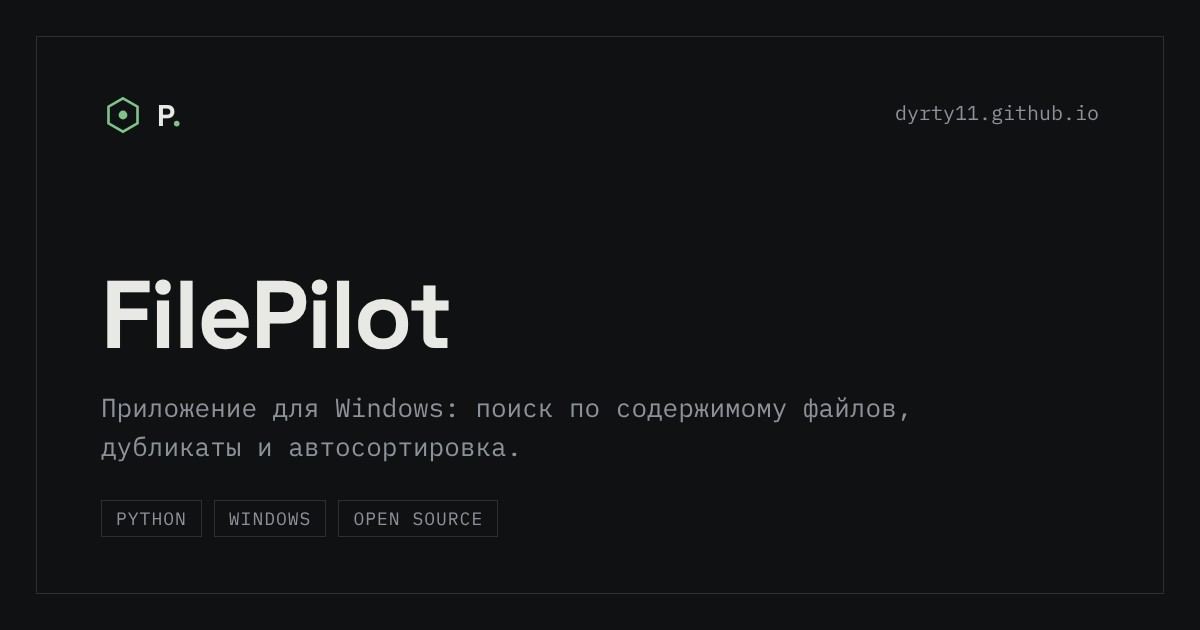
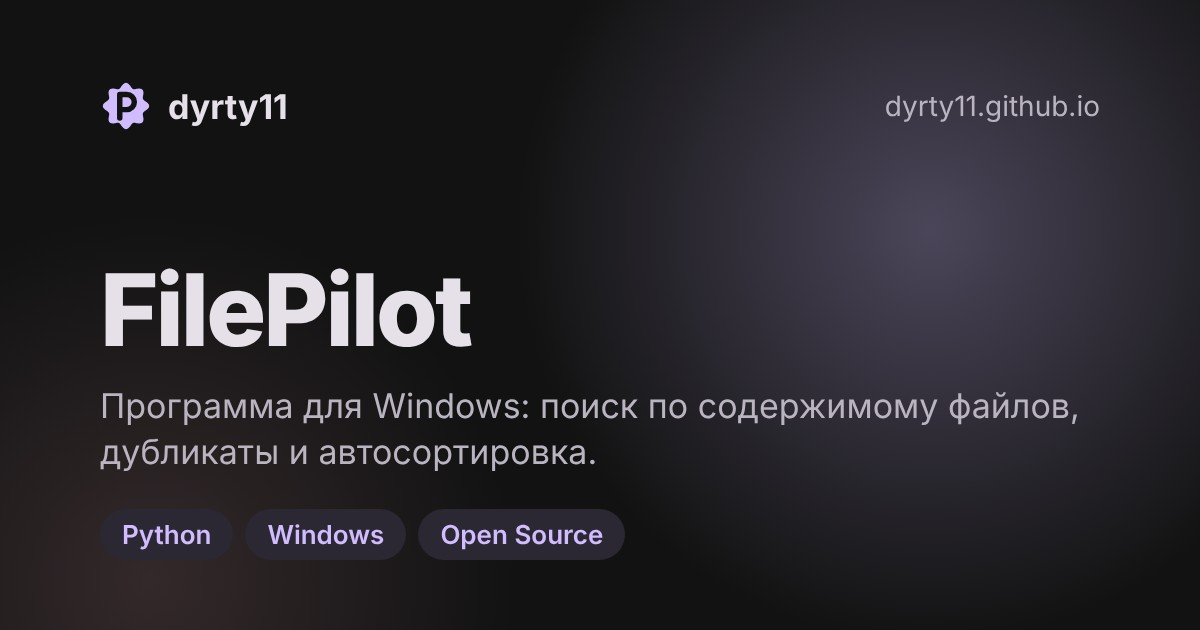
Кнопка Boosty заметнее; логотип, иконки, превью и скриншоты проектов в лавандовой теме
Claude-Session: https://claude.ai/code/session_01NerikphXdw5LsC3ChMqPgt

diff --git a/index.html b/index.html
@@ -47,6 +47,7 @@
             <a href="contacts.html">Контакты</a>
         </nav>
         <div class="header-controls">
+            <a class="boosty-btn" href="https://boosty.to/dyrty_11" target="_blank" rel="noopener noreferrer" aria-label="Поддержать на Boosty"><svg viewBox="0 0 24 24" fill="currentColor" aria-hidden="true"><path d="M12 21s-7.5-4.6-9.6-9.3C.9 8.2 2.8 4.5 6.4 4.5c2 0 3.7 1.1 4.6 2.7h2c.9-1.6 2.6-2.7 4.6-2.7 3.600 0 5.500 3.700 4 7.200C19.500 16.400 12 21 12 21z"/></svg><span>Boosty</span></a>
             <div class="theme-switch" id="themeToggle">
                 <div class="theme-switch-ball"></div>
                 <svg class="sun-icon" viewBox="0 0 24 24"><polygon points="16.80,12.00 14.40,16.16 9.60,16.16 7.20,12.00 9.60,7.84 14.40,7.84"/><path d="M17.93,13.81L21.70,17.60L16.53,16.23zM13.39,18.04L12.00,23.20L10.61,18.04zM7.47,16.23L2.30,17.60L6.07,13.81zM6.07,10.19L2.30,6.40L7.47,7.77zM10.61,5.96L12.00,0.80L13.39,5.96zM16.53,7.77L21.70,6.40L17.93,10.19z"/></svg>
@@ -72,6 +73,7 @@
                         <a href="projects.html" class="btn btn-primary">Смотреть проекты</a>
                         <a href="contacts.html" class="btn">Связаться</a>
                         <a href="https://github.com/dyrty11" target="_blank" rel="noopener noreferrer" class="btn">GitHub</a>
+                        <a href="https://boosty.to/dyrty_11" target="_blank" rel="noopener noreferrer" class="btn btn-boosty"><svg viewBox="0 0 24 24" fill="currentColor" aria-hidden="true"><path d="M12 21s-7.5-4.6-9.6-9.3C.9 8.2 2.8 4.5 6.4 4.5c2 0 3.7 1.1 4.6 2.7h2c.9-1.6 2.6-2.7 4.6-2.7 3.600 0 5.500 3.700 4 7.200C19.500 16.400 12 21 12 21z"/></svg>Поддержать на Boosty</a>
                     </div>
                 </div>
             </section>
@@ -160,7 +162,7 @@
                         <p>Я dyrty11, разработчик. Делаю сайты, браузерные утилиты и приложения для Windows. VoidForge работает в браузере, FilePilot ставится на компьютер; исходный код открыт.</p>
                         <p>Опишите задачу, и я предложу решение и сроки.</p>
                         <div class="about-actions"><a href="contacts.html" class="btn btn-primary">Обсудить проект</a>
-                            <a href="https://boosty.to/dyrty_11" target="_blank" rel="noopener noreferrer" class="btn">Поддержать на Boosty</a></div>
+                            <a href="https://boosty.to/dyrty_11" target="_blank" rel="noopener noreferrer" class="btn btn-boosty"><svg viewBox="0 0 24 24" fill="currentColor" aria-hidden="true"><path d="M12 21s-7.5-4.6-9.6-9.3C.9 8.2 2.8 4.5 6.4 4.5c2 0 3.7 1.1 4.6 2.7h2c.9-1.6 2.6-2.7 4.6-2.7 3.600 0 5.500 3.700 4 7.200C19.500 16.400 12 21 12 21z"/></svg>Поддержать на Boosty</a></div>
                     </div>
                     <div class="about-side" data-reveal>
                         <h3>Стек</h3>

diff --git a/contacts.html b/contacts.html
@@ -45,6 +45,7 @@
             <a href="contacts.html" class="active" aria-current="page">Контакты</a>
         </nav>
         <div class="header-controls">
+            <a class="boosty-btn" href="https://boosty.to/dyrty_11" target="_blank" rel="noopener noreferrer" aria-label="Поддержать на Boosty"><svg viewBox="0 0 24 24" fill="currentColor" aria-hidden="true"><path d="M12 21s-7.5-4.6-9.6-9.3C.9 8.2 2.8 4.5 6.4 4.5c2 0 3.7 1.1 4.6 2.7h2c.9-1.6 2.6-2.7 4.6-2.7 3.600 0 5.500 3.700 4 7.200C19.500 16.400 12 21 12 21z"/></svg><span>Boosty</span></a>
             <div class="theme-switch" id="themeToggle">
                 <div class="theme-switch-ball"></div>
                 <svg class="sun-icon" viewBox="0 0 24 24"><polygon points="16.80,12.00 14.40,16.16 9.60,16.16 7.20,12.00 9.60,7.84 14.40,7.84"/><path d="M17.93,13.81L21.70,17.60L16.53,16.23zM13.39,18.04L12.00,23.20L10.61,18.04zM7.47,16.23L2.30,17.60L6.07,13.81zM6.07,10.19L2.30,6.40L7.47,7.77zM10.61,5.96L12.00,0.80L13.39,5.96zM16.53,7.77L21.70,6.40L17.93,10.19z"/></svg>
@@ -105,7 +106,7 @@
             <aside class="support-card">
                 <h2>Поддержать проект</h2>
                 <p>Сайт и программы бесплатные. Если они пригодились, можно закинуть любую сумму на Boosty.</p>
-                <a href="https://boosty.to/dyrty_11" target="_blank" rel="noopener noreferrer" class="btn btn-primary">Поддержать на Boosty</a>
+                <a href="https://boosty.to/dyrty_11" target="_blank" rel="noopener noreferrer" class="btn btn-boosty"><svg viewBox="0 0 24 24" fill="currentColor" aria-hidden="true"><path d="M12 21s-7.5-4.6-9.6-9.3C.9 8.2 2.8 4.5 6.4 4.5c2 0 3.7 1.1 4.6 2.7h2c.9-1.6 2.6-2.7 4.6-2.7 3.600 0 5.500 3.700 4 7.200C19.500 16.400 12 21 12 21z"/></svg>Поддержать на Boosty</a>
             </aside>
         </div>
         <footer>

diff --git a/ttyou.css b/ttyou.css
@@ -224,3 +224,11 @@ footer::before { content: ""; position: absolute; left: 0; right: 0; top: -5px; 
 .support-card p { flex: 1 1 280px; margin: 0; color: var(--text-muted); }
 .about-actions { display: flex; flex-wrap: wrap; gap: 12px; }
 .submit-btn { border-radius: 999px; }
+
+/* Boosty: оранжевый, чтобы кнопку было видно */
+.btn-boosty, .boosty-btn { --bo: #ff6b35; background: var(--bo); color: #230d04; font-weight: 700; display: inline-flex; align-items: center; justify-content: center; gap: 8px; border: 0; }
+.btn-boosty svg, .boosty-btn svg { width: 18px; height: 18px; flex: none; }
+.btn-boosty:hover, .boosty-btn:hover { background: #ff8559; color: #230d04; box-shadow: 0 10px 30px -10px rgba(255,107,53,.7); }
+.boosty-btn { height: 40px; padding: 0 16px 0 12px; border-radius: 999px; font-size: .9rem; text-decoration: none; transition: background .2s, box-shadow .2s; }
+.header-controls { gap: 12px; }
+@media (max-width: 420px) { .boosty-btn { padding: 0 12px; } .boosty-btn span { display: none; } }

diff --git a/project-cheatsheets.html b/project-cheatsheets.html
@@ -48,6 +48,7 @@
             <a href="contacts.html">Контакты</a>
         </nav>
         <div class="header-controls">
+            <a class="boosty-btn" href="https://boosty.to/dyrty_11" target="_blank" rel="noopener noreferrer" aria-label="Поддержать на Boosty"><svg viewBox="0 0 24 24" fill="currentColor" aria-hidden="true"><path d="M12 21s-7.5-4.6-9.6-9.3C.9 8.2 2.8 4.5 6.4 4.5c2 0 3.7 1.1 4.6 2.7h2c.9-1.6 2.6-2.7 4.6-2.7 3.600 0 5.500 3.700 4 7.200C19.500 16.400 12 21 12 21z"/></svg><span>Boosty</span></a>
             <div class="theme-switch" id="themeToggle">
                 <div class="theme-switch-ball"></div>
                 <svg class="sun-icon" viewBox="0 0 24 24"><polygon points="16.80,12.00 14.40,16.16 9.60,16.16 7.20,12.00 9.60,7.84 14.40,7.84"/><path d="M17.93,13.81L21.70,17.60L16.53,16.23zM13.39,18.04L12.00,23.20L10.61,18.04zM7.47,16.23L2.30,17.60L6.07,13.81zM6.07,10.19L2.30,6.40L7.47,7.77zM10.61,5.96L12.00,0.80L13.39,5.96zM16.53,7.77L21.70,6.40L17.93,10.19z"/></svg>

diff --git a/project-filepilot.html b/project-filepilot.html
@@ -49,6 +49,7 @@
             <a href="contacts.html">Контакты</a>
         </nav>
         <div class="header-controls">
+            <a class="boosty-btn" href="https://boosty.to/dyrty_11" target="_blank" rel="noopener noreferrer" aria-label="Поддержать на Boosty"><svg viewBox="0 0 24 24" fill="currentColor" aria-hidden="true"><path d="M12 21s-7.5-4.6-9.6-9.3C.9 8.2 2.8 4.5 6.4 4.5c2 0 3.7 1.1 4.6 2.7h2c.9-1.6 2.6-2.7 4.6-2.7 3.600 0 5.500 3.700 4 7.200C19.500 16.400 12 21 12 21z"/></svg><span>Boosty</span></a>
             <div class="theme-switch" id="themeToggle">
                 <div class="theme-switch-ball"></div>
                 <svg class="sun-icon" viewBox="0 0 24 24"><polygon points="16.80,12.00 14.40,16.16 9.60,16.16 7.20,12.00 9.60,7.84 14.40,7.84"/><path d="M17.93,13.81L21.70,17.60L16.53,16.23zM13.39,18.04L12.00,23.20L10.61,18.04zM7.47,16.23L2.30,17.60L6.07,13.81zM6.07,10.19L2.30,6.40L7.47,7.77zM10.61,5.96L12.00,0.80L13.39,5.96zM16.53,7.77L21.70,6.40L17.93,10.19z"/></svg>

diff --git a/project-qr.html b/project-qr.html
@@ -48,6 +48,7 @@
             <a href="contacts.html">Контакты</a>
         </nav>
         <div class="header-controls">
+            <a class="boosty-btn" href="https://boosty.to/dyrty_11" target="_blank" rel="noopener noreferrer" aria-label="Поддержать на Boosty"><svg viewBox="0 0 24 24" fill="currentColor" aria-hidden="true"><path d="M12 21s-7.5-4.6-9.6-9.3C.9 8.2 2.8 4.5 6.4 4.5c2 0 3.7 1.1 4.6 2.7h2c.9-1.6 2.6-2.7 4.6-2.7 3.600 0 5.500 3.700 4 7.200C19.500 16.400 12 21 12 21z"/></svg><span>Boosty</span></a>
             <div class="theme-switch" id="themeToggle">
                 <div class="theme-switch-ball"></div>
                 <svg class="sun-icon" viewBox="0 0 24 24"><polygon points="16.80,12.00 14.40,16.16 9.60,16.16 7.20,12.00 9.60,7.84 14.40,7.84"/><path d="M17.93,13.81L21.70,17.60L16.53,16.23zM13.39,18.04L12.00,23.20L10.61,18.04zM7.47,16.23L2.30,17.60L6.07,13.81zM6.07,10.19L2.30,6.40L7.47,7.77zM10.61,5.96L12.00,0.80L13.39,5.96zM16.53,7.77L21.70,6.40L17.93,10.19z"/></svg>

diff --git a/project-voidforge.html b/project-voidforge.html
@@ -48,6 +48,7 @@
             <a href="contacts.html">Контакты</a>
         </nav>
         <div class="header-controls">
+            <a class="boosty-btn" href="https://boosty.to/dyrty_11" target="_blank" rel="noopener noreferrer" aria-label="Поддержать на Boosty"><svg viewBox="0 0 24 24" fill="currentColor" aria-hidden="true"><path d="M12 21s-7.5-4.6-9.6-9.3C.9 8.2 2.8 4.5 6.4 4.5c2 0 3.7 1.1 4.6 2.7h2c.9-1.6 2.6-2.7 4.6-2.7 3.600 0 5.500 3.700 4 7.200C19.500 16.400 12 21 12 21z"/></svg><span>Boosty</span></a>
             <div class="theme-switch" id="themeToggle">
                 <div class="theme-switch-ball"></div>
                 <svg class="sun-icon" viewBox="0 0 24 24"><polygon points="16.80,12.00 14.40,16.16 9.60,16.16 7.20,12.00 9.60,7.84 14.40,7.84"/><path d="M17.93,13.81L21.70,17.60L16.53,16.23zM13.39,18.04L12.00,23.20L10.61,18.04zM7.47,16.23L2.30,17.60L6.07,13.81zM6.07,10.19L2.30,6.40L7.47,7.77zM10.61,5.96L12.00,0.80L13.39,5.96zM16.53,7.77L21.70,6.40L17.93,10.19z"/></svg>

diff --git a/project.html b/project.html
@@ -44,6 +44,7 @@
             <a href="contacts.html">Контакты</a>
         </nav>
         <div class="header-controls">
+            <a class="boosty-btn" href="https://boosty.to/dyrty_11" target="_blank" rel="noopener noreferrer" aria-label="Поддержать на Boosty"><svg viewBox="0 0 24 24" fill="currentColor" aria-hidden="true"><path d="M12 21s-7.5-4.6-9.6-9.3C.9 8.2 2.8 4.5 6.4 4.5c2 0 3.7 1.1 4.6 2.7h2c.9-1.6 2.6-2.7 4.6-2.7 3.600 0 5.500 3.700 4 7.200C19.500 16.400 12 21 12 21z"/></svg><span>Boosty</span></a>
             <div class="theme-switch" id="themeToggle">
                 <div class="theme-switch-ball"></div>
                 <svg class="sun-icon" viewBox="0 0 24 24"><polygon points="16.80,12.00 14.40,16.16 9.60,16.16 7.20,12.00 9.60,7.84 14.40,7.84"/><path d="M17.93,13.81L21.70,17.60L16.53,16.23zM13.39,18.04L12.00,23.20L10.61,18.04zM7.47,16.23L2.30,17.60L6.07,13.81zM6.07,10.19L2.30,6.40L7.47,7.77zM10.61,5.96L12.00,0.80L13.39,5.96zM16.53,7.77L21.70,6.40L17.93,10.19z"/></svg>

diff --git a/projects.html b/projects.html
@@ -46,6 +46,7 @@
             <a href="contacts.html">Контакты</a>
         </nav>
         <div class="header-controls">
+            <a class="boosty-btn" href="https://boosty.to/dyrty_11" target="_blank" rel="noopener noreferrer" aria-label="Поддержать на Boosty"><svg viewBox="0 0 24 24" fill="currentColor" aria-hidden="true"><path d="M12 21s-7.5-4.6-9.6-9.3C.9 8.2 2.8 4.5 6.4 4.5c2 0 3.7 1.1 4.6 2.7h2c.9-1.6 2.6-2.7 4.6-2.7 3.600 0 5.500 3.700 4 7.200C19.500 16.400 12 21 12 21z"/></svg><span>Boosty</span></a>
             <div class="theme-switch" id="themeToggle">
                 <div class="theme-switch-ball"></div>
                 <svg class="sun-icon" viewBox="0 0 24 24"><polygon points="16.80,12.00 14.40,16.16 9.60,16.16 7.20,12.00 9.60,7.84 14.40,7.84"/><path d="M17.93,13.81L21.70,17.60L16.53,16.23zM13.39,18.04L12.00,23.20L10.61,18.04zM7.47,16.23L2.30,17.60L6.07,13.81zM6.07,10.19L2.30,6.40L7.47,7.77zM10.61,5.96L12.00,0.80L13.39,5.96zM16.53,7.77L21.70,6.40L17.93,10.19z"/></svg>
